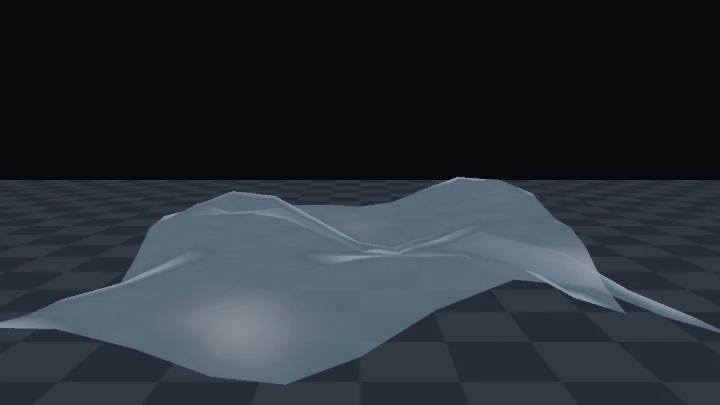
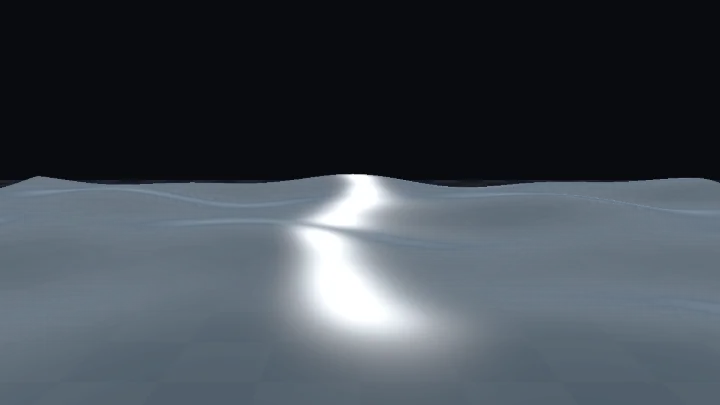
dispatch(water-wave-surface-fix): 표본 수정: water-wave-surface 리뷰 반영
Dispatch-Job: water-wave-surface-fix
Dispatch-Profile: org
Dispatch-Model: claude-opus-5-5

diff --git a/web/src/specimens/water-wave-surface/meta.ts b/web/src/specimens/water-wave-surface/meta.ts
@@ -10,69 +10,70 @@ export const meta: SpecimenMeta = {
   goals: [
     '방향과 파장이 다른 사인파 몇 개를 더해 평면 정점의 높이를 오르내리게 할 수 있다.',
     '같은 사인파 식을 x, z 로 미분해 법선 `(-dh/dx, 1, -dh/dz)` 를 구하고, 정점을 밀 때 법선도 다시 구해야 하는 이유를 설명할 수 있다.',
-    '프레넬로 물빛과 하늘빛을 섞고 알파를 정해, 내려다보는 곳은 비치고 먼 곳은 하늘이 덮게 할 수 있다.',
-    '씬의 주 광원(`GetMainLight`)으로 Blinn-Phong 반사광을 더하고, 반사광이 화면의 어디에 생기는지 광원과 시선 방향으로 설명할 수 있다.',
+    '프레넬로 물빛과 하늘빛을 섞고 알파를 정해, 내려다보는 앞쪽은 바닥이 비치고 먼 곳은 하늘이 덮게 할 수 있다.',
+    '씬의 주 광원(`GetMainLight`)으로 Blinn-Phong 반사광을 더하고, 해가 카메라 맞은편 낮은 곳에 있을 때 화면 가운데 아래로 해 반짝임 길이 생기는 까닭을 광원과 시선 방향으로 설명할 수 있다.',
   ],
   tags: ['정점 변형', '사인파', '법선 계산', '프레넬', '알파 혼합'],
   difficulty: 1,
   shaderFile: 'WaterWaveSurface.shader',
-  stage: { kind: 'mesh', mesh: 'plane', blend: 'alpha', vertex: true },
+  stage: { kind: 'mesh', mesh: 'grid', blend: 'alpha', vertex: true, backlit: true },
   params: [
-    { key: '_WaveHeight', label: '파도 높이', type: 'range', min: 0, max: 1, step: 0.01, default: 0.25, hint: '첫 파도의 진폭(오브젝트 공간). 나머지 두 파도는 0.6 배, 0.4 배로 따라간다. 무대 평면은 0.3 배로 줄여 놓아 0.25 면 첫 파도 마루가 약 7.5 cm 오른다. 0 이면 윤곽도 음영도 평평한 판이 된다' },
-    { key: '_WaveLength', label: '파장', type: 'range', min: 7, max: 20, step: 0.5, default: 7, hint: '첫 파도의 마루 사이 거리(오브젝트 공간, 평면 한 변이 10). 나머지 두 파도는 0.77 배, 0.58 배다. 최솟값 7 은 가장 짧은 파도(약 4)가 Unity 기본 Plane 정점 간격(1)의 4 배가 되게 정한 값이다' },
-    { key: '_WaveSpeed', label: '파도 속도', type: 'range', min: 0, max: 6, step: 0.1, default: 1.5, hint: '첫 파도의 마루가 1초에 나아가는 거리(오브젝트 공간). 짧은 파도일수록 조금 느리다. 0 이면 멈춘다' },
+    { key: '_WaveHeight', label: '파도 높이', type: 'range', min: 0, max: 0.14, step: 0.005, default: 0.04, hint: '첫 파도의 진폭(m). 나머지 두 파도는 0.6 배, 0.4 배로 따라가 세 파도가 겹친 골은 이 값의 2 배까지 내려간다. 기본 0.04 면 첫 파도 마루가 4 cm 오른다. 그 2 배가 수면과 바닥 사이(이 무대는 0.3 m)보다 작아야 골이 바닥을 뚫지 않는다. 0 이면 윤곽도 음영도 평평한 판이 된다' },
+    { key: '_WaveLength', label: '파장', type: 'range', min: 0.8, max: 6, step: 0.1, default: 2.2, hint: '첫 파도의 마루 사이 거리(m, 평면 한 변이 10). 나머지 두 파도는 0.77 배, 0.58 배다. 최솟값 0.8 은 가장 짧은 파도(약 0.46)가 100 칸 평면의 정점 간격(0.1)의 4 배를 넘게 정한 값이다' },
+    { key: '_WaveSpeed', label: '파도 속도', type: 'range', min: 0, max: 3, step: 0.05, default: 0.8, hint: '첫 파도의 마루가 1초에 나아가는 거리(m). 짧은 파도일수록 조금 느리다. 0 이면 멈춘다' },
     { key: '_WaveAngle', label: '파도 방향', type: 'range', min: 0, max: 360, step: 5, default: 225, unit: '°', hint: '첫 파도가 나아가는 쪽 (Y 회전처럼 0 은 +Z, 90 은 +X). 기본 225 는 화면 오른쪽 안에서 왼쪽 앞으로 비스듬히 밀려온다. 나머지 두 파도는 55도, -40도 엇갈린다' },
     { key: '_DeepColor', label: '물빛', type: 'color', default: '#042a45', hint: '수면을 내려다볼 때 보이는 물 자체의 색' },
     { key: '_SkyColor', label: '하늘빛', type: 'color', default: '#70a4cc', hint: '수면에 비친 하늘의 색' },
-    { key: '_SpecStrength', label: '반사광 세기', type: 'range', min: 0, max: 3, step: 0.05, default: 2, hint: '주 광원이 물결에 비친 빛의 밝기. 0 이면 반사광이 없다' },
-    { key: '_SpecPower', label: '반사광 날카로움', type: 'range', min: 4, max: 256, step: 1, default: 8, hint: 'Blinn-Phong 지수. 크면 반사광이 작고 또렷해지고, 작으면 넓게 번진다. 이 무대는 해가 카메라 뒤에 있어 20 쯤을 넘기면 반사광이 거의 사라진다 (거친 바다처럼 물결이 가파르면 남는다)' },
+    { key: '_SpecStrength', label: '반사광 세기', type: 'range', min: 0, max: 3, step: 0.05, default: 1.2, hint: '해 반짝임의 밝기. 0 이면 반짝임 길이 사라진다' },
+    { key: '_SpecPower', label: '반사광 날카로움', type: 'range', min: 4, max: 256, step: 1, default: 200, hint: 'Blinn-Phong 지수. 크면 반짝임이 물결마다 작은 조각으로 끊어져 해 반짝임 길이 되고, 20 아래로 내리면 화면 아래쪽 가운데가 넓은 흰 막으로 덮인다' },
   ],
   presets: [
-    { id: 'open-water', name: '맑은 물', look: '푸른 물결이 비스듬히 밀려오고, 마루 뒷면에 하늘빛 줄, 카메라 쪽 면에 반사광이 넓게 번진다', values: {} },
-    { id: 'calm-lake', name: '잔잔한 호수', look: '긴 물결이 느리게 일렁이고 잿빛 청록 하늘빛이 거울처럼 넓게 비친다', values: { _WaveHeight: 0.12, _WaveLength: 12, _WaveSpeed: 0.8, _DeepColor: '#0e3a3a', _SkyColor: '#b4ccd6', _SpecPower: 64 } },
-    { id: 'rough-sea', name: '거친 바다', look: '높은 물결이 빠르게 겹쳐 솟고, 마루 뒷면에 잿빛 하늘이 가는 줄로 비친다', values: { _WaveHeight: 0.5, _WaveLength: 7, _WaveSpeed: 3.5, _DeepColor: '#123a52', _SkyColor: '#8796a3', _SpecStrength: 1.5, _SpecPower: 24 } },
-    { id: 'toon-water', name: '만화풍 물', look: '밝은 하늘색 물에 반사광이 넓고 부드럽게 번진다', values: { _WaveHeight: 0.35, _WaveLength: 9, _DeepColor: '#0f7fb0', _SkyColor: '#8fe3ff', _SpecStrength: 1.2, _SpecPower: 4 } },
+    { id: 'open-water', name: '맑은 물', look: '푸른 물결이 비스듬히 밀려오고, 마루 뒷면에 하늘빛 줄, 화면 가운데 아래로 해 반짝임 길이 물결마다 끊어지며 반짝인다', values: {} },
+    { id: 'calm-lake', name: '잔잔한 호수', look: '긴 물결이 느리게 일렁이고, 잿빛 청록 하늘빛이 거울처럼 넓게 비치며 해 반짝임이 가는 기둥으로 모인다', values: { _WaveHeight: 0.02, _WaveLength: 4.5, _WaveSpeed: 0.5, _DeepColor: '#0e3a3a', _SkyColor: '#b4ccd6', _SpecPower: 256 } },
+    { id: 'rough-sea', name: '거친 바다', look: '높고 긴 물결이 빠르게 밀려와 먼 쪽 윤곽이 크게 출렁이고, 해 반짝임이 넓게 흩어진다', values: { _WaveHeight: 0.07, _WaveLength: 3.5, _WaveSpeed: 1.6, _DeepColor: '#123a52', _SkyColor: '#8796a3', _SpecStrength: 1, _SpecPower: 96 } },
+    { id: 'tropical-water', name: '열대 바다', look: '밝은 하늘색 물에 잔물결이 촘촘하게 일고, 해 반짝임이 작은 조각으로 잘게 부서진다', values: { _WaveHeight: 0.02, _WaveLength: 1.4, _WaveSpeed: 0.6, _DeepColor: '#0f7fb0', _SkyColor: '#8fe3ff' } },
   ],
   events: [],
   demo: {
-    // 파도 높이를 오가며 거의 평평한 물과 높게 출렁이는 물을 번갈아 보여 준다.
-    loops: [{ key: '_WaveHeight', frames: [[0, 0.3], [3, 0.6], [4.5, 0.6], [7.5, 0.08], [9, 0.08], [11, 0.3]], ease: 'inOutSine' }],
+    // 파도 높이를 오가며 거의 평평한 물과 높게 출렁이는 물을 번갈아 보여 준다. 처음과 끝은 기본값(0.04)이라 데모가 시작될 때 튀지 않는다.
+    loops: [{ key: '_WaveHeight', frames: [[0, 0.04], [3, 0.065], [4.5, 0.065], [7.5, 0.012], [9, 0.012], [11, 0.04]], ease: 'inOutSine' }],
   },
   steps: [
-    { n: 1, label: '파도 높이', body: '방향과 파장이 다른 사인파 세 개를 더한 높이를 회색으로 본다. 흰 곳이 마루, 검은 곳이 골이다. 한 방향 파도였다면 곧은 줄무늬였겠지만, 세 파도가 엇갈려 둥근 언덕과 움푹한 골이 여기저기 흩어져 있다. 정점도 이 높이만큼 위아래로 밀려 윤곽이 같은 모양으로 출렁인다. 화면에서 sRGB 로 밝아지지 않게 제곱해서 보여 준다.' },
-    { n: 2, label: '파도 법선', body: '높이 식을 x, z 로 미분한 기울기로 `(-dh/dx, 1, -dh/dz)` 를 만들어 정규화한 법선을 색으로 본다 (R 은 x, G 는 위, B 는 z). 법선은 대부분 위를 향해 전체가 초록이고, 화면 오른쪽(+X)으로 기운 비탈은 노란빛, 먼 쪽(+Z)으로 기운 비탈은 하늘빛이 돈다. 1단계의 마루 꼭대기와 골 바닥은 평평해 맑은 초록이고, 그 사이 비탈에서 색이 가장 많이 바뀐다. 이 법선을 픽셀마다 다시 구하므로 정점이 성긴 메시에서도 음영이 매끈하다.' },
-    { n: 3, label: '프레넬', body: '법선과 시선으로 구한 프레넬(하늘이 비치는 정도)을 회색으로 본다. 카메라 반대쪽으로 기운 마루 뒷면은 수면을 스치듯 보게 되어 하얀 줄로 빛나고, 카메라 쪽으로 기운 앞면은 정면에 가까워 짙은 회색이다. 평평한 곳도 꽤 밝은 회색인 것은 이 무대의 카메라가 수면을 낮게 내려다보기 때문이다. 최종 화면은 이 값으로 물빛과 하늘빛을 섞고 알파도 정한다. 그래서 짙은 앞면은 물빛으로 반투명해 바닥이 비치고, 밝은 뒷면과 먼 쪽은 하늘빛으로 덮인다.' },
-    { n: 4, label: '반사광', body: '씬의 주 광원으로 구한 Blinn-Phong 반사광이다. 카메라 쪽으로 기운 물결 면에 넓은 회색 빛이 번지고 나머지는 검다. 무대의 해가 카메라 뒤 위쪽에 있어 광원과 시선의 가운데 방향(하프 벡터)이 카메라 쪽으로 누워 있기 때문이다. 3단계에서 짙던 자리와 거의 겹친다. 날카로움을 20 쯤 넘기면 이 무대에서는 반사광이 거의 사라진다. 이 빛을 3단계로 섞은 색에 더하면 최종 화면이고, 물체와 만나는 곳의 거품과 얕은 물빛은 [깊이 기반 물가 거품](#/s/water-depth-foam) 이 이어받는다.' },
+    { n: 1, label: '파도 높이', body: '방향과 파장이 다른 사인파 세 개를 더한 높이를 회색으로 본다. 흰 곳이 마루, 검은 곳이 골이다. 한 방향 파도였다면 곧은 줄무늬였겠지만, 세 파도가 엇갈려 둥근 언덕과 움푹한 골이 고르지 않게 흩어져 있다. 정점도 이 높이만큼 위아래로 밀려, 먼 쪽 수면의 윤곽이 같은 모양으로 출렁인다.' },
+    { n: 2, label: '파도 법선', body: '높이 식을 x, z 로 미분한 기울기로 `(-dh/dx, 1, -dh/dz)` 를 만들어 정규화한 법선을 색으로 본다 (R 은 x, G 는 위, B 는 z). 법선은 대부분 위를 향해 전체가 연두색이고, 비탈마다 노란빛(화면 오른쪽 +X 로 기움)이나 하늘빛(먼 쪽 +Z 로 기움)이 살짝 돈다. 기본 파도는 낮고 완만해 색 차이가 작다. 파도 높이를 올리면 또렷해진다. 이 법선을 픽셀마다 다시 구하므로 음영이 정점 사이에서도 매끈하다.' },
+    { n: 3, label: '프레넬', body: '법선과 시선으로 구한 프레넬(하늘이 비치는 정도)을 회색으로 본다. 카메라 반대쪽으로 기운 마루 뒷면은 수면을 스치듯 보게 되어 가는 흰 줄로 빛나고, 먼 쪽일수록 전체가 밝아진다. 화면 아래쪽 가까운 물은 수면을 내려다보아 짙은 회색이다. 최종 화면은 이 값으로 물빛과 하늘빛을 섞고 알파도 정한다. 그래서 짙은 앞쪽은 반투명해 바닥의 체커 무늬가 어둡게 비치고, 밝은 먼 쪽은 하늘빛으로 덮인다.' },
+    { n: 4, label: '반사광', body: '씬의 주 광원으로 구한 Blinn-Phong 반사광이다. 이 무대는 해가 카메라 맞은편 낮은 곳에 있어, 수면에 비친 해가 화면 가운데 아래로 세로로 긴 반짝임 길을 만든다. 물결 면마다 기울기가 달라 해를 카메라 쪽으로 되돌려 보내는 면만 밝으므로 길이 여러 조각으로 끊어지고 나머지는 검다. 날카로움을 낮추면 조각이 번져 넓은 흰 막이 되고, 높이면 조각이 더 작아진다. 이 빛을 3단계로 섞은 색에 더하면 최종 화면이고, 물체와 만나는 곳의 거품과 얕은 물빛은 [깊이 기반 물가 거품](#/s/water-depth-foam) 이 이어받는다.' },
   ],
-  offNote: '정점은 그대로 출렁여 윤곽은 물결치는데, 법선을 다시 구하지 않고 평면의 원래 법선(위쪽)으로 프레넬과 반사광을 계산한 흔한 실수다. 물결 면마다 달라야 할 하늘빛과 반사광이 모두 사라져, 먼 쪽으로 갈수록 조금씩 밝아질 뿐인 고른 파란 판이 된다. 윤곽만 출렁이는 천처럼 보여 수면의 굴곡이 읽히지 않는다. 투명 표본이라 바닥 그림자는 켜도 꺼도 없다.',
+  offNote: '정점은 그대로 출렁여 먼 쪽 윤곽은 물결치는데, 법선을 다시 구하지 않고 평면의 원래 법선(위쪽)으로 프레넬과 반사광을 계산한 흔한 실수다. 수면은 먼 쪽으로 갈수록 고르게 밝아질 뿐인 파란 판이 되고, 물결마다 끊어져야 할 해 반짝임은 평평한 거울에 비친 듯 매끈한 빛기둥 하나로 뭉친다. 화면 어디에도 물결 무늬가 없어 수면이 출렁이는지 읽히지 않는다. 투명 표본이라 바닥 그림자는 켜도 꺼도 없다.',
   mistakes: [
     { title: '수면은 출렁이는데 빛과 하늘빛은 평평한 판처럼 고르다', body: '정점의 높이만 바꾸고 법선은 메시의 원래 법선(위쪽)을 그대로 쓰면 프레넬과 반사광이 물결을 모른다. 높이 식 `A sin(k (D · xz) - 위상)` 을 x, z 로 미분한 `A k cos(...) D` 로 기울기를 구하고 `normalize(float3(-dh/dx, 1, -dh/dz))` 를 법선으로 쓴다. 정점 단계에서는 위치만 돌려주므로 픽셀 단계에서 위치의 xz 로 같은 식을 다시 계산한다.' },
-    { title: 'Unity 에서 파도 윤곽이 각지고 지그재그로 꺾인다', body: 'Unity 기본 Plane 은 한 변 10 을 10 칸으로 나눠 정점 간격이 1 이다. 파장이 정점 간격의 4 배보다 짧으면 마루와 골 사이에 정점이 한두 개뿐이라 윤곽이 꺾인 선이 된다. 음영은 픽셀마다 다시 구해 매끈하지만 실루엣은 정점이 정한다. 파장을 늘리거나, 칸 수가 많은 평면 메시(ProBuilder 의 Plane 이나 직접 만든 메시)를 쓴다.' },
-    { title: '평면을 키웠더니 파도도 함께 커지고, 이어 붙인 평면 경계에서 파도가 끊긴다', body: '파도를 오브젝트 공간 위치로 계산하기 때문이다. Scale 을 3 배로 하면 파장과 높이도 3 배가 된다. 넓은 물은 Scale 대신 정점이 많은 큰 메시를 쓰거나, 래퍼의 정점 함수에서 월드 위치를 구해 그 xz 로 파도를 계산하도록 바꾼다 (그때는 높이도 월드에서 더한 뒤 오브젝트 공간으로 되돌린다). 월드로 바꾸면 이어 붙인 평면끼리 경계가 맞는다.' },
-    { title: '반사광이 보이지 않는다', body: 'Blinn-Phong 반사광은 법선이 광원 방향과 시선 방향의 가운데(하프 벡터)와 거의 같을 때만 생긴다. 해가 카메라 뒤에 있으면 하프 벡터가 카메라 쪽으로 누워 있어, 카메라 쪽으로 크게 기운 물결 면에만 반사광이 생기고, 날카로움이 크면 그마저 사라진다 (이 갤러리 무대가 그렇다. 기본 날카로움을 8 로 낮게 둔 까닭이다). 날카로움을 낮추거나 파도 높이를 올리고, Directional Light 를 카메라 맞은편 낮은 곳으로 돌려 본다. 해가 맞은편에 있으면 날카로움을 올려도 작고 또렷한 반짝임이 남는다. 이 셰이더는 씬의 주 광원을 따르므로 해를 돌리면 반사광 자리도 따라 움직인다.' },
-    { title: '실행 중에 파도 속도를 바꾸면 물결이 한 번에 튄다', body: '위상을 `시간 * 속도` 로 만들기 때문에 속도를 바꾸면 그동안 흐른 시간 전체에 변화량이 곱해진다. 연출로 속도를 바꾸려면 C# 에서 `Time.deltaTime * 속도` 를 쌓아 머티리얼 값으로 넘기고, 셰이더는 시간 대신 그 값을 쓴다.' },
+    { title: 'Unity 에서 파도 윤곽이 각지고 지그재그로 꺾인다', body: '정점을 미는 파도는 메시의 정점 간격이 윤곽을 정한다. 기본값은 100 칸 격자(한 변 10 m, 정점 간격 0.1 m) 기준이다. 기본 Plane 이면 파장을 4 m 이상으로 올린다. 기본 Plane 은 10 칸이라 정점 간격이 1 m 이고, 가장 짧은 셋째 파도(첫 파장의 0.58 배)가 정점 간격의 4 배보다 짧으면 마루와 골 사이에 정점이 한두 개뿐이라 윤곽이 꺾인 선이 된다. 음영은 픽셀마다 다시 구해 매끈하지만 실루엣은 정점이 정한다. 짧은 물결을 쓰려면 기본 Plane 대신 함께 든 `WaterSurfaceGrid` 컴포넌트로 촘촘한 평면을 만든다.' },
+    { title: '평면을 키웠더니 파도도 함께 커지고, 이어 붙인 평면 경계에서 파도가 끊긴다', body: '파도를 오브젝트 공간 위치로 계산하기 때문이다. Scale 을 3 배로 하면 파장과 높이도 3 배가 된다. 넓은 물은 Scale 대신 `WaterSurfaceGrid` 의 Size 와 Cells 를 함께 키운다. 평면을 이어 붙여야 하면 월드 공간으로 바꾼다. 래퍼의 `vert` 에서 `TransformObjectToWorld` 로 월드 위치를 먼저 구하고, 그 xz 로 `waveSum` 의 높이를 구해 월드 y 에 더한 뒤 화면 위치를 구한다 (`sgVertex` 는 부르지 않는다). 픽셀 단계도 `SgInput` 에 `positionWS` 를 넣어 `waveSum(i.positionWS.xz, i.time)` 으로 바꾸고, 이때 나온 법선은 이미 월드 방향이므로 `WAVE_NORMAL_TO_WORLD` 를 빼야 법선이 물결 모양과 맞는다. 그러면 이어 붙인 평면끼리 경계가 맞는다.' },
+    { title: '해 반짝임이 보이지 않는다', body: 'Blinn-Phong 반사광은 법선이 광원 방향과 시선 방향의 가운데(하프 벡터)와 거의 같을 때만 생긴다. 해 반짝임은 수면에 비친 해가 보이는 곳, 곧 해가 카메라 맞은편에 있을 때 화면 가운데 아래로 생긴다. 해가 카메라 뒤 위쪽에 있으면 하프 벡터가 카메라 쪽으로 누워 카메라 쪽으로 크게 기운 물결 면에만 반사광이 생기고, 기본 날카로움 200 에서는 거의 사라진다. Directional Light 를 카메라 맞은편 낮은 곳(높이 10~30도)으로 돌린다. 해를 옮길 수 없으면 날카로움을 20 쯤으로 낮춰 넓게 번지게 한다. 이 셰이더는 씬의 주 광원을 따르므로 해를 돌리면 반짝임 자리도 따라 움직이고, 그늘진 물에는 반짝임이 없다.' },
+    { title: '실행 중에 파도 속도나 파장을 바꾸면 물결이 한 번에 튄다', body: '위상을 `시간 * 속도 / 파장` 으로 만들기 때문에 속도나 파장을 바꾸면 그동안 흐른 시간 전체에 변화량이 곱해져 마루 자리가 한 번에 건너뛴다. 연출로 바꾸려면 C# 에서 파도마다 `Time.deltaTime * 속도 / 파장` 을 쌓아 `Mathf.Repeat(값, 1)` 로 감싸 머티리얼 값으로 넘기고, 셰이더는 `frac(time * speed / lambda)` 대신 그 값을 쓴다. 세 파도는 속도와 파장의 비율이 서로 달라 쌓는 값도 파도마다 따로 둔다.' },
   ],
   unity: {
     setup: [
-      '`WaterWaveSurface.shader`, `core.hlsl` 을 `Assets/Shaders/water-wave-surface/` 에 둔다.',
+      '`WaterWaveSurface.shader`, `core.hlsl`, `WaterSurfaceGrid.cs` 를 `Assets/Shaders/water-wave-surface/` 에 둔다.',
       '셰이더를 우클릭해 Create > Material 로 머티리얼을 만든다.',
-      'GameObject > 3D Object > Plane 을 만들어 머티리얼을 넣는다. 수면 아래에 바닥이나 지형을 두면 앞쪽 물이 비쳐 보인다.',
-      '넓은 물이면 Scale 을 키우지 말고 칸 수가 많은 평면 메시를 쓴다 (실수 목록의 "평면을 키웠더니" 참고).',
+      'GameObject > Create Empty 로 빈 GameObject 를 만들고 Add Component 로 `WaterSurfaceGrid` 를 붙인다. MeshFilter 와 MeshRenderer 가 함께 붙고 한 변 10 m, 100 칸(정점 간격 0.1 m)인 평면이 생긴다. MeshRenderer 의 Materials 에 머티리얼을 넣는다.',
+      '넓은 물은 Scale 을 키우지 말고 `WaterSurfaceGrid` 의 Size 와 Cells 를 함께 키운다 (Cells 는 254 까지). ProBuilder 의 Plane 이나 DCC 툴에서 만든 촘촘한 평면을 써도 된다. Unity 기본 Plane 을 쓰면 파장을 4 m 이상으로 올린다.',
+      'Directional Light 를 카메라 맞은편 낮은 곳으로 돌린다 (카메라가 +Z 를 보면 Rotation 15, 180, 0 쯤). 화면 가운데 아래로 해 반짝임 길이 생긴다. 수면 아래에 바닥이나 지형을 두면 앞쪽 물이 비쳐 보인다.',
       'Scene 뷰에서 파도가 멈춰 있으면 Scene 뷰 툴바의 Effects 메뉴에서 Always Refresh 를 켠다.',
     ],
-    verify: 'Play 하면 평면이 여러 방향의 물결로 출렁이고, 카메라 쪽으로 기운 물결 면은 짙은 물빛, 마루 뒷면과 먼 쪽은 하늘빛으로 보이며, Directional Light 를 돌리면 반사광 자리가 따라 움직인다. 파도 높이를 0 으로 내리면 평평한 판이 되고 윤곽도 멈춘다.',
+    verify: 'Play 하면 수면이 여러 방향의 물결로 출렁이고, 화면 아래쪽 가까운 물은 바닥이 비치는 짙은 물빛, 마루 뒷면과 먼 쪽은 하늘빛으로 보이며, 해가 카메라 맞은편 낮은 곳에 있으면 화면 가운데 아래로 해 반짝임 길이 생기고 Directional Light 를 돌리면 따라 움직인다. 파도 높이를 0 으로 내리면 평평한 판이 되고 윤곽도 멈춘다.',
     pitfalls: [
       '이 셰이더는 3D 투명 메시용이다. 패스가 `UniversalForward` 하나라 2D Renderer 에서는 그려지지 않는다. 투명 물체라 그림자를 드리우지 않고 깊이 텍스처에도 들어가지 않는다.',
-      '정점을 미는 파도라 메시가 촘촘해야 한다. Unity 기본 Plane 은 10×10 칸(정점 간격 1)이라 가장 짧은 파장을 정점 간격의 4 배(약 4) 이상으로 두었다. 그래도 마루 사이에 정점이 네댓 개뿐이라 평면 가장자리와 마루의 실루엣이 짧은 꺾인 선으로 보인다. 음영은 픽셀마다 법선을 다시 구해 매끈하다. 넓은 바다는 정점이 많은 메시가 필요하고, 정점이 많을수록 비용이 크므로 XR 과 모바일에서는 칸 수를 아낀다.',
+      '정점을 미는 파도라 메시가 촘촘해야 한다. 기본값은 100 칸 격자 기준이다. 기본 Plane 이면 파장을 4 m 이상으로 둔다 (정점 간격이 1 m 라 짧은 파도의 윤곽이 꺾인 선이 된다). 음영은 픽셀마다 법선을 다시 구해 매끈하다. 정점이 많을수록 비용이 크므로 XR 과 모바일에서는 칸 수를 아낀다. 셰이더가 민 정점은 경계 상자에 들어가지 않아 화면 가장자리의 마루가 갑자기 사라질 수 있다. `WaterSurfaceGrid` 는 Bounds Padding(기본 0.5 m)만큼 위아래로 늘려 두었고, 다른 메시를 쓰면 `Mesh.bounds` 를 파도 높이만큼 늘린다.',
+      '`ZWrite Off` 라 한 메시 안에서는 삼각형을 그리는 순서가 곧 앞뒤다. `WaterSurfaceGrid` 와 기본 Plane 은 +Z 쪽 행부터 그려 -Z 쪽에서 보면 맞지만, 반대편(+Z)에서 보거나 평면을 Y 로 180도 돌리면 뒤쪽 물결이 앞 마루 위에 그려진다. 파도를 낮추거나 패스를 `ZWrite On` 으로 바꾼다 (그러면 수면 아래의 다른 투명 물체가 가려진다).',
       '파도는 오브젝트 공간 위치로 계산한다. 평면을 키우면 파도도 함께 커지고, 평면을 Y 로 돌리면 파도 방향도 함께 돈다 (래퍼가 법선을 월드로 바꿔 조명은 맞는다). Batching Static 을 켠 물체는 정점이 월드 좌표로 합쳐져 `positionOS` 가 월드 위치가 되므로 파도 크기와 방향이 바뀐다. 수면은 Batching Static 을 끈다.',
       '주 광원은 `GetMainLight(shadowCoord, positionWS, shadowMask)` 로 받아 그림자 거리 페이드를 따르지만 `distanceAttenuation` 을 곱하지 않아 광원의 Culling Mask 와 Rendering Layers 는 무시된다.',
-      '정점을 셰이더에서 밀어도 Renderer 의 경계 상자는 원래 두께 없는 평면 그대로다. 경계 상자가 화면 밖으로 나가면 물체 전체를 그리지 않으므로, 화면 위나 아래 가장자리에서 솟은 마루가 갑자기 사라질 수 있다. 파도가 높으면 메시 복사본의 `Mesh.bounds` 를 파도 높이만큼 위아래로 늘린다.',
       '이 셰이더는 안개를 처리하지 않아 Fog 를 켠 씬에서 먼 수면이 안개에 묻히지 않는다. 패스에 `#pragma multi_compile_fog` 를 넣고 정점에서 `ComputeFogFactor(positionCS.z)` 를 넘긴 뒤, 마지막 색에 `MixFog(color, fogFactor)` 를 건다.',
     ],
-    graph: 'Shader Graph 에서는 Graph Settings 의 Surface Type 을 Transparent 로 두고, Position 노드(Object)의 xz 를 Custom Function 노드에 넣는다. Custom Function 은 String 모드로 `waveOne` 과 `waveSum` 의 본문을 옮겨 `void WaterWave_float(float2 XZ, float Time, out float Height, out float3 NormalOS)` 처럼 감싼다 (머티리얼 값은 입력으로 받는다). Height 를 Position 의 y 에 더해 Vertex 의 Position 에 넣고, NormalOS 는 Fragment 의 Normal (Object Space) 에 넣는다. `core.hlsl` 을 File 모드로 통째로 지정하면 `SgInput` 과 머티리얼 값 선언이 없어 컴파일되지 않는다.',
+    graph: 'Shader Graph 로 옮기면 Unlit 그래프로 만든다 (Lit 이면 프레넬과 Blinn-Phong 대신 URP 의 PBR 조명이 그려 이 표본과 다른 물이 된다). Graph Settings 의 Surface Type 을 Transparent 로 둔다. Custom Function 노드를 String 모드로 만들어 `waveOne` 과 `waveSum` 의 본문을 옮기고 `void WaterWave_float(float2 XZ, float Time, float WaveHeight, float WaveLength, float WaveSpeed, float WaveAngle, out float Height, out float3 NormalOS)` 로 감싼다. 머티리얼 값은 Blackboard 속성을 입력에 잇는다. Position 노드(Object)의 xz 와 Time 노드를 넣고, Height 를 Position 의 y 에 더해 Vertex 의 Position 에 넣는다. Unlit 은 Fragment 에 Normal 칸이 없으므로, Fragment 쪽에서 같은 노드를 한 번 더 써서 NormalOS 를 Transform 노드(Object 에서 World, Normal)로 바꾸고, 해 방향과 색은 `void MainLight_float(out float3 Direction, out float3 Color)` 처럼 `GetMainLight()` 를 부르는 Custom Function 으로 받는다 (`#ifdef SHADERGRAPH_PREVIEW` 일 때는 고정 값을 넣는다. 그림자 키워드를 따로 넣지 않으면 그림자는 받지 않는다). 이 법선과 View Direction 노드로 프레넬과 Blinn-Phong 을 계산해 Base Color 와 Alpha 에 넣는다. `core.hlsl` 을 File 모드로 통째로 지정하면 `SgInput` 과 머티리얼 값 선언이 없어 컴파일되지 않는다.',
   },
   prompt: {
-    goal: '평면 메시를 사인파 몇 개로 출렁이게 하고, 물결에 맞는 법선으로 하늘빛과 햇빛 반짝임이 비치는 기본 물 셰이더를 넣는다. 텍스처와 깊이 텍스처 없이 동작한다.',
+    goal: '평면 메시를 사인파 몇 개로 출렁이게 하고, 물결에 맞는 법선으로 하늘빛과 햇빛 반짝임이 비치는 기본 물 셰이더를 넣는다. 텍스처와 깊이 텍스처 없이 동작하고, 파도에 필요한 촘촘한 평면은 함께 든 C# 컴포넌트가 만든다.',
     adaptIdeas: [
       '수업 XR 01 Lake Shader 처럼 잔물결 법선맵 두 장을 서로 다른 방향으로 흘려, 큰 파도 법선 위에 잔물결을 더하고 싶다.',
       '사인파 대신 Gerstner 파도로 마루를 뾰족하게 하고 싶다.',
@@ -83,8 +84,8 @@ export const meta: SpecimenMeta = {
     ],
   },
   captures: [
-    { name: 'rough-sea', label: '거친 바다', values: { _WaveHeight: 0.5, _WaveLength: 7, _WaveSpeed: 3.5, _DeepColor: '#123a52', _SkyColor: '#8796a3', _SpecStrength: 1.5, _SpecPower: 24 } },
-    { name: 'toon-water', label: '만화풍 물', values: { _WaveHeight: 0.35, _WaveLength: 9, _DeepColor: '#0f7fb0', _SkyColor: '#8fe3ff', _SpecStrength: 1.2, _SpecPower: 4 } },
+    { name: 'rough-sea', label: '거친 바다', values: { _WaveHeight: 0.07, _WaveLength: 3.5, _WaveSpeed: 1.6, _DeepColor: '#123a52', _SkyColor: '#8796a3', _SpecStrength: 1, _SpecPower: 96 } },
+    { name: 'tropical-water', label: '열대 바다', values: { _WaveHeight: 0.02, _WaveLength: 1.4, _WaveSpeed: 0.6, _DeepColor: '#0f7fb0', _SkyColor: '#8fe3ff' } },
   ],
   inspiredBy: [
     {
@@ -95,7 +96,7 @@ export const meta: SpecimenMeta = {
       link: 'https://developer.nvidia.com/gpugems/gpugems/part-i-natural-effects/chapter-1-effective-water-simulation-physical-models',
     },
   ],
-  original: '특정 게임의 재현이 아니라 공개 자료의 원리를 따라 새로 만들었다. 수업 XR 01 Lake Shader(Step1~7: 파동, 법선맵 두 장, 프레넬, 반사)의 앞부분을 텍스처 없이 한 장에 모은 기초편이고, 3D 05 Terrain Island 의 바다에 쓸 수 있다. 파도 세 개를 첫 파도의 비율로 자동으로 만드는 구성과 코드는 이 갤러리에서 새로 만들었다.',
+  original: '특정 게임의 재현이 아니라 공개 자료의 원리를 따라 새로 만들었다. 수업 XR 01 Lake Shader(Step1~7: 파동, 법선맵 두 장, 프레넬, 반사)의 앞부분을 텍스처 없이 한 장에 모은 기초편이고, 3D 05 Terrain Island 의 바다에 쓸 수 있다. 파도 세 개를 첫 파도의 비율로 자동으로 만드는 구성, 촘촘한 평면을 만드는 컴포넌트와 코드는 이 갤러리에서 새로 만들었다.',
   references: [
     { label: 'GPU Gems 1장: Effective Water Simulation from Physical Models', url: 'https://developer.nvidia.com/gpugems/gpugems/part-i-natural-effects/chapter-1-effective-water-simulation-physical-models' },
     { label: 'Catlike Coding: Waves (Unity 튜토리얼)', url: 'https://catlikecoding.com/unity/tutorials/flow/waves/' },

diff --git a/Assets/Shaders/water-wave-surface/WaterSurfaceGrid.cs b/Assets/Shaders/water-wave-surface/WaterSurfaceGrid.cs
@@ -1,0 +1,130 @@
+// 물결 수면용 촘촘한 평면 메시를 만들어 MeshFilter 에 넣는다. 빈 GameObject 에 붙이고 MeshRenderer 에 물 머티리얼을 넣는다.
+// Unity 기본 Plane 과 크기(한 변 10)와 UV 방향(u 는 -X, v 는 -Z 쪽으로 커진다)이 같고 칸만 촘촘하다 (기본 100 칸, 정점 간격 0.1).
+// 기본 Plane 은 10 칸(정점 간격 1)이라 짧은 파도의 윤곽이 꺾인 선이 된다.
+using UnityEngine;
+
+namespace ShaderGallery.Samples
+{
+    [ExecuteAlways]
+    [RequireComponent(typeof(MeshFilter), typeof(MeshRenderer))]
+    public class WaterSurfaceGrid : MonoBehaviour
+    {
+        // 정점 인덱스를 16비트로 두어 모바일에서도 안전하게: (칸 + 1)² 이 65535 를 넘지 않는 최대 칸 수.
+        const int MaxCells = 254;
+
+        [Tooltip("한 변의 길이 (m). 넓은 물은 Scale 대신 이 값을 키운다. Scale 을 키우면 파도도 함께 커진다")]
+        [SerializeField, Min(0.1f)] float size = 10f;
+
+        [Tooltip("한 변의 칸 수. 가장 짧은 파도가 정점 간격(한 변 / 칸 수)의 4 배 이상이 되게 둔다. 칸이 많을수록 정점 비용이 크다")]
+        [SerializeField, Range(1, MaxCells)] int cells = 100;
+
+        [Tooltip("경계 상자를 위아래로 늘리는 여유 (m). 셰이더가 정점을 밀어도 화면 가장자리에서 마루가 잘려 사라지지 않게 파도 높이보다 크게 둔다")]
+        [SerializeField, Min(0f)] float boundsPadding = 0.5f;
+
+        // 이 컴포넌트가 만든 메시. 씬에 저장하지 않고(DontSave) 켤 때 없으면 다시 만든다.
+        Mesh mesh;
+        bool dirty;
+
+        void OnEnable()
+        {
+            // 씬을 열거나 오브젝트를 복제하면 이 컴포넌트의 메시가 없으므로 새로 만든다.
+            if (mesh == null)
+            {
+                mesh = new Mesh { name = "WaterSurfaceGrid", hideFlags = HideFlags.DontSave };
+            }
+            Rebuild();
+        }
+
+        void OnValidate()
+        {
+            cells = Mathf.Clamp(cells, 1, MaxCells);
+            // OnValidate 안에서 MeshFilter 를 바꾸면 Unity 가 경고한다. 표시만 하고 다음 Update 에서 만든다.
+            dirty = true;
+#if UNITY_EDITOR
+            // 편집 모드에서도 바로 다음 갱신이 오게 한다.
+            UnityEditor.EditorApplication.QueuePlayerLoopUpdate();
+#endif
+        }
+
+        void Update()
+        {
+            if (dirty)
+            {
+                Rebuild();
+            }
+        }
+
+        void Rebuild()
+        {
+            dirty = false;
+            if (mesh == null)
+            {
+                return;
+            }
+            int n = cells + 1;
+            var positions = new Vector3[n * n];
+            var normals = new Vector3[n * n];
+            var uvs = new Vector2[n * n];
+            for (int z = 0; z < n; z++)
+            {
+                for (int x = 0; x < n; x++)
+                {
+                    int i = z * n + x;
+                    float u = x / (float)cells;
+                    float v = z / (float)cells;
+                    // 기본 Plane 처럼 u 가 커지면 -X, v 가 커지면 -Z 쪽으로 간다.
+                    positions[i] = new Vector3(size * (0.5f - u), 0f, size * (0.5f - v));
+                    normals[i] = Vector3.up;
+                    uvs[i] = new Vector2(u, v);
+                }
+            }
+            var indices = new int[cells * cells * 6];
+            int k = 0;
+            for (int z = 0; z < cells; z++)
+            {
+                for (int x = 0; x < cells; x++)
+                {
+                    int a = z * n + x;
+                    int b = a + n;
+                    int c = a + 1;
+                    int d = b + 1;
+                    // 위에서 볼 때 시계 방향이라 앞면이 +Y 를 향한다. +Z 쪽 행부터 그린다.
+                    indices[k++] = a;
+                    indices[k++] = b;
+                    indices[k++] = c;
+                    indices[k++] = c;
+                    indices[k++] = b;
+                    indices[k++] = d;
+                }
+            }
+            mesh.Clear();
+            mesh.indexFormat = UnityEngine.Rendering.IndexFormat.UInt16;
+            mesh.SetVertices(positions);
+            mesh.SetNormals(normals);
+            mesh.SetUVs(0, uvs);
+            mesh.SetTriangles(indices, 0);
+            mesh.RecalculateTangents();
+            // 정점은 셰이더가 위아래로 미므로 경계 상자를 그만큼 두껍게 둔다.
+            mesh.bounds = new Bounds(Vector3.zero, new Vector3(size, boundsPadding * 2f, size));
+            GetComponent<MeshFilter>().sharedMesh = mesh;
+        }
+
+        void OnDestroy()
+        {
+            // 직접 만든 메시는 직접 지워야 한다. 편집 모드에서는 Destroy 를 쓸 수 없다.
+            if (mesh == null)
+            {
+                return;
+            }
+            if (Application.isPlaying)
+            {
+                Destroy(mesh);
+            }
+            else
+            {
+                DestroyImmediate(mesh);
+            }
+            mesh = null;
+        }
+    }
+}
